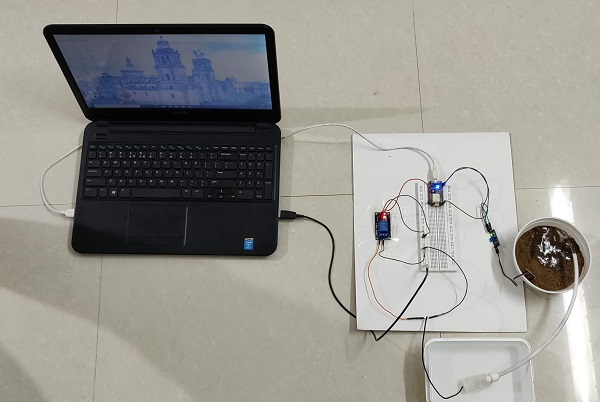
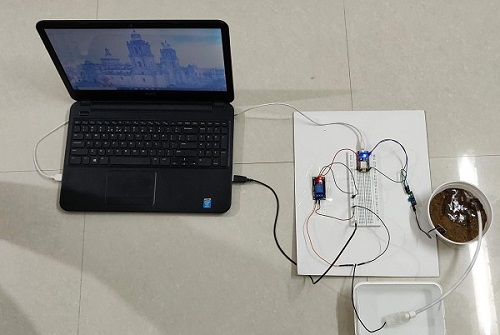
second commit
bit change in image

diff --git a/index.html b/index.html
@@ -314,8 +314,7 @@ interpersonal communication, adaptability, leadership, and time management.
                 </div>
                 
                 <div class="row" style="margin-top: 50px; text-align: justify;">
-                  <div class="col-5" ><img src="assets/imgs/project2.jpeg" style="margin-top: 25px;height: 
-                  350px;width: 500px;"></div>
+                  <div class="col-5" ><img src="assets/imgs/project2.jpeg" style="margin-top: 25px;"></div>
                   <div class="col-1"></div>
                   <div class="col-6">
                     <p><h3  style="margin-left: 2px;font-family: Roboto, sans-serif !important;">
